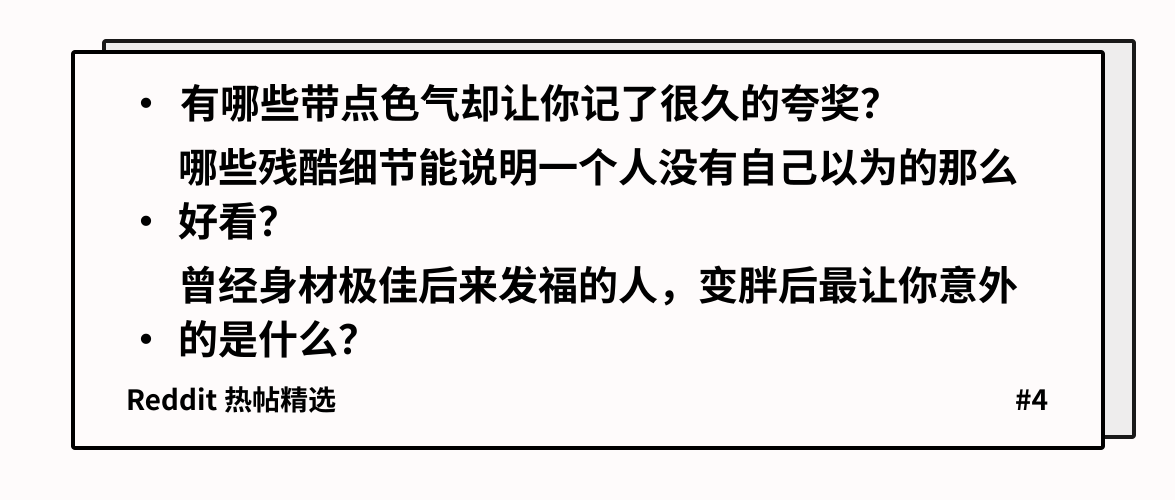
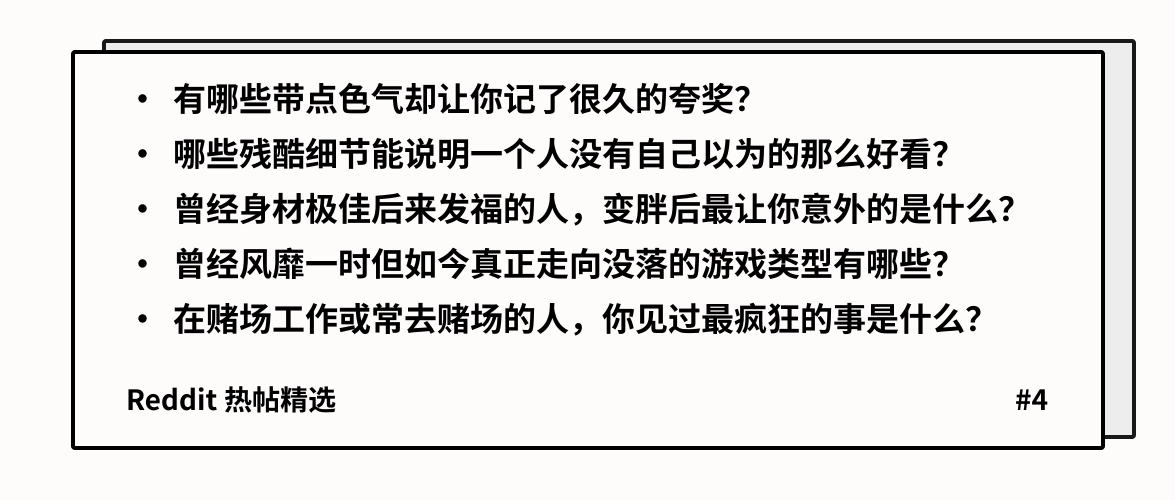
feat(reddit): archive life WeChat drafts

Changed region(s): [[0.1226, 0.27, 0.8885, 0.72], [0.1226, 0.15, 0.766, 0.24]]

diff --git a/data/reddit-life-wechat/2026-08-22/01-1vujdcq.md b/data/reddit-life-wechat/2026-08-22/01-1vujdcq.md
@@ -1,7 +1,7 @@
 ---
 author: bhwa233
 pubDatetime: 2026-08-21T16:00:00Z
-modDatetime: 2026-08-22T10:19:44Z
+modDatetime: 2026-08-23T04:36:12Z
 title: "有哪些带点色气却让你记了很久的夸奖？｜Reddit 热帖精选 #4"
 featured: false
 draft: false
@@ -126,11 +126,83 @@ subreddit: "AskReddit"
 
 10\. 肥胖还会摧毁人的自律能力。当身体状态恶化、体内激素和神经递质失衡时，原本在健身房里的意志力和控制力会彻底瓦解。脑子里明明懂得所有减脂原理，却发现自己根本无法像以前那样严格执行，那种无能为力的挫败感极其折磨人。
 
+## 曾经风靡一时但如今真正走向没落的游戏类型有哪些？
+
+1\. 网页小游戏基本上已经名存实亡。当年 Flash 播放器的停用直接终结了一代人的网页记忆，无数经典老游戏彻底无法运行。更受欢迎的作品要么转战移动端沦为充斥微交易的课金机器，要么被新一代沙盒与平台彻底取代。
+
+2\. 即时战略游戏（RTS）在世纪之交曾统治整个行业，《星际争霸》《魔兽争霸》《命令与征服》是无数人的青春。现在这类游戏太难做成爆款，多数新作也难以摆脱老套路的换皮感，整个品类全靠忠实老玩家、大型社区 MOD 以及偶尔冒出的精品苦苦支撑。
+
+3\. 音乐和节奏类游戏曾经在实体店里独占一整排货架，如今在主流主机上几乎绝迹。这个品类除了退守 VR 平台和日本街机厅外，主要是因为玩家社区彻底掌控了生态：当玩家能在《Clone Hero》这类社区作品里免费畅玩几百万首自定义曲目时，商业厂商无论出什么带几十首歌的新作都毫无竞争力。
+
+4\. 2D 点击解谜与冒险游戏在经历了上世纪黄金期和 2010 年代的短暂回暖后再次边缘化。原本触摸屏是最适合该品类的载体，但手游市场追求短平快，玩家很难在手机上沉下心打通一部长篇解谜，这类玩法现在更多演化为了独立推理悬疑作品。
+
+5\. 像《烈火战车》《横冲直撞》这种以载具战斗和破坏为核心的赛车游戏几乎绝迹。事实上除了硬核赛车模拟器和极少数开放世界竞速大作外，包括《火爆狂飙》《极品飞车》在内的传统街机风格娱乐赛车都已风光不再。
+
+6\. 本地分屏与同屏合作游戏（Couch Co-op）几乎被大厂遗忘。以前两个人挤在沙发上一台电视打通宵是常态，如今除了《双人成行》或少数独立游戏，主流 3A 大作几乎不再提供能让两个人在本地无缝共享进度的分屏战役。
+
+7\. 纯粹的潜行暗杀游戏几乎灭绝了。《细胞分裂》《神偷》那个时代靠严谨光影与环境机制驱动的纯潜行玩法难以在高画质大作中平衡，如今各大厂商只是把潜行做成开放世界里的通用附属机制，再也没人愿意做纯潜行核心体验。
+
+8\. 竞技场射击游戏（Arena shooters）在经历了《雷神之锤 3》和《虚幻竞技场》的辉煌后已死去多年。市场先是被英雄射击瓜分，紧接着被大逃杀和撤离类射击占领，那种纯靠身法、抢资源点和高速枪法决胜负的快节奏竞技彻底失去了大众市场。
+
+9\. 大逃杀类游戏也正在肉眼可见地降温。在巅峰期几乎每款射击游戏都硬塞一个吃鸡模式，极度的市场饱和让大量跟风作品活不过两周，即便是头部作品对年轻一代的吸引力也开始下滑。
+
+10\. 大型多人在线角色扮演游戏（MMORPG）陷入了没有厂商敢做新项目的死局。开发成本极其高昂，而老玩家在现有的老牌 MMO 中投入了数千小时与深厚的社交资产，新游戏只要稍有瑕疵就会迅速暴毙，难以吸引玩家抛弃旧天地。
+
+11\. 3D 平台跳跃游戏如今罕有大厂涉足，除了任天堂的马里奥和索尼的《宇宙机器人》等极少数标杆外，大预算大制作几乎绝迹，整个品类几乎退守成了中小成本独立开发者的领地。
+
+12\. 以单人战役为核心卖点、多人模式仅作为补充的传统线性第一人称射击游戏越来越少，取而代之的全是长线运营服务型射击；同时真人互动影视游戏、实体联动玩具游戏以及能让玩家真正永久买断离线拥有的游戏模式，也都在被现代游戏工业逐步淘汰。
+
+## 在赌场工作或常去赌场的人，你见过最疯狂的事是什么？
+
+1\. 80年代末在赌场当发牌员，见过一个醉汉兜里揣着5英镑走进来，最后带着4.1万英镑离开，在当年那笔钱足够全款买套房子。还有一次我发二十一点时，有赌客把点燃的雪茄直接按在我手背上掐灭，我当场反手给了他一巴掌。第二天经理把我叫进办公室，说客人道歉了，但我也必须向客人道歉。我当场辞职，买了张去迈阿密的机票，挨家挨户敲游轮公司的门找赌场工作。那年我19岁，觉得自己刀枪不入，可惜手背上的疤留到了今天。
+
+2\. 年轻时有次跟朋友玩嗨了，突发奇想开了一小时车跑去印第安保留地的赌场，两人兜里各自只有100美元。我们在那遇到了我表哥，他问我们玩过二十一点没，我说知道规则但没玩过。表哥就带着我们坐下一边教潜规则一边打，最后我揣着1300美元离场，朋友赢了900美元。等药劲差不多退去、脑子开始清醒时，我转头问朋友：“你想不想成为这间赌场里最聪明的人？”他立刻懂了我的意思，我们拔腿就走。
+
+3\. 二十岁出头在牌桌上打德扑，左手边的大哥跟我聊得火热，说自己已经输了5万美元，今天不捞回来绝对不下桌。因为我就住在赌场酒店里，第二天中午下楼吃午餐时路过牌桌，发现他依然坐在同一个位置上。我心里有一丝希望他回本了，但理智告诉我他只会被吃得渣都不剩。
+
+4\. 在赌场做客房服务送酒，电梯门一开，一个西装革履的老先生整个人蜷缩在电梯角落的地板上。我问他需不需要叫人帮忙，他神色平静、毫无波澜地回了一句：“我输了一百万美元。”剩下那段电梯成了我人生中最尴尬漫长的几分钟。
+
+5\. 老虎机上方的轨道灯起火，燃烧的碎片像下雨一样掉在机器上，保安不得不强行把赌客从机器前拖走，因为这群人居然一边拍掉头发和屏幕上的火星一边继续狂按。还有一次天花板漏水直往下滴，为了不打断连胜运，玩家死活不肯走，最后保安找来一张巨大的透明塑料布，把整排机器和坐着的人一起盖在下面继续赌。
+
+6\. 当发牌员时有个常客整天泡在桌前，他为了不离开座位上厕所从而“打断赢钱运”，竟然自愿去医院插了导尿管，还到处跟人炫耀，可他实际上几乎就没赢过。还有很多赌客干脆穿上成人纸尿裤，甚至有人把孩子辛辛苦苦攒下的零花钱翻出来全输光，病态得令人窒息。
+
+7\. 在掷骰子桌上，有个男子自命不凡地把1.5万美元现金像撒花一样甩得满桌都是，荷官直接拿起推杆把所有钱当垃圾一样全铲回他面前，冷冷地说想玩就先学会像个绅士。结果这人下一把按每投5000美元下注，连掷三次全输光。
+
+8\. 老虎机软件工程师表示极度讨厌自己的工作。最让人看不下去的是毫无希望的重度赌瘾者：插着氧气管的老太太往机器里塞20美元钞票的速度，快赶上机器吞钱的极限；还有人直接包下一整排机器，像巡逻一样来回走动狂拍旋转键，甚至完全不看屏幕上滚出的结果。
+
+9\. 低投注区的机器永远坐满了重度上瘾的老太太，赌场开门前就在排队，整天玩5美分的档位。有天一位老太太悄无声息地死在机器后座上，赌场连门都没关，只是把低投注区域单独拉上了警戒线。
+
+10\. 90年代在小赌场发牌，一个穿着降落伞裤、顶着挑染发型的年轻人狂掷重金，输光后毫无表情地走开。片刻后他径直挤回我的桌前，背对着我开始扭动，随后在一秒钟之内把降落伞裤褪到脚踝，当场在桌前脱裤撒野。
+
+11\. 朋友吃完海鲜自助大餐又喝了烈酒，坐在二十一点桌前突然喷射性呕吐，吐得满桌、满牌、连发牌员身上全是一层黏糊糊的海鲜浓汤。同桌的赌客连自己桌上的筹码都顾不上拿，当场作鸟兽散。
+
+12\. 作为志愿消防员，有次当地遭遇洪水，我们被叫到一家地下室被淹的赌场排险。赶到现场时水已经漫到了脚踝深度，令人震惊的是，满屋子的赌客依然泡在水里淡定地拍着老虎机。
+
+13\. 玩便士老虎机的男人纸尿裤彻底兜不住了，他一边对着机器狂怒仿佛机器抢了他的钱，一边一只手提着裤子防止继续往下漏，另一只手不停往里塞一美元纸币。保安习以为常地递给他纸巾让他别蹭到椅子上，最后他兑出42美元，留下一张满是污渍的湿椅子扬长而去。
+
+14\. 掷骰子桌上总能见到以为自己能靠特定手法“控球”的人，输掉成堆的钱，但他们的自信心却从不减弱分毫，仿佛只要意念够强就能对抗台面上那些专门打乱骰子落点的金字塔减震胶垫。
+
+15\. 赌场酒吧常客在小便池里脱光裤子大便，被吧员质问后直接转过身对着地板乱尿，甚至光着屁股气势汹汹地要跟赶来的保安决斗，毫无悬念地被当场制服。
+
+16\. 德州扑克锦标赛正打着，一位年轻妈妈提着婴儿提篮冲进场，直接把刚出生不久的婴儿放在牌桌正中央，对着4号位的丈夫怒吼：“既然你不想回家看孩子，那你就坐在这里看！”随后摔门而去。丈夫尴尬地抱起孩子赶紧追出去，发牌员为了缓解死寂的气氛调侃了一句：“孩子可不能这么养（raise），这可是台面下注规则！”
+
+17\. 朋友的前男友沉迷电子基诺机，年薪7.5万美元，外加一栋价值30万美元的房子，最后全被那些赔率极低的破机器吞得一干二净，彻底输掉了整个人生。
+
+18\. 遇到大面积停电时，机器全部黑屏，我们必须人工核算给上千名客人手动派发现金，结果整群老头老太瞬间将员工死死围住，场面失控得像是要引发暴动。
+
+19\. 90年代欧洲赌场监控密布，到处贴着国际老千团伙的大头照。这些团伙无所不用其极，有人在手掌上涂满胶水，假装靠在赌桌上顺手粘走筹码，还有专门配齐算牌团队全方位钻漏洞的。
+
+20\. 救护人员赶到赌场对一名在轮椅上失去呼吸的老人进行心肺复苏，周围打老虎机的赌客却死活不肯挪开哪怕半步，甚至愤怒地大吼：“这是我的机器，我绝对不挪！”为了不打断自己的游戏，对身旁的生死抢救毫无悲悯。
+
+21\. 欧洲夜班赌场在清晨4点夜店关门后，常涌入吸毒狂欢后的VIP。一位熟客进门要烈酒被拒后给了200欧元小费改要甘菊茶，随后转头去玩轮盘，输红了眼后当场脱下裤子直接尿在轮盘赌桌上，随即被终身禁入。
+
+22\. 丈夫突发心脏病倒地，急救人员需要从妻子的手提包里拿急救药，妻子却舍不得松开正在拉老虎机的手，头也不回地说机器马上要吐奖了不能停。丈夫最终在救护车上去世，妻子随后被指控过失杀人。
+
+23\. 好友夫妇去赌场前立规矩每人最多输500美元，中途手气爆棚中了1.5万美元大奖，赌场殷勤地免费送了他们一晚高级套房庆祝。第二天朋友垂头丧气地告诉我他们输得精光，不仅1.5万奖金全倒贴回去，还额外亏了原本的50美元——他们这才明白为什么赌场会那么大方地免费赠送客房。
+
+24\. 参与建造一家极度奢华的赌场，开业前三天老板视察，认为地毯颜色是“血红”而不是他要的“龙红”，一声令下将全场数万平米地毯全部掀掉重铺，光换地毯就烧了3000万美元。开业当天客人的烟头直接掉在崭新的地毯上，赌场的应对方案是每周用机器把地毯表面刨削掉3毫米去烫痕，削到底了再整批换新。
+
 **今天还有这些热帖**
-
-4\. 曾经风靡一时但如今真正走向没落的游戏类型有哪些？
-
-5\. 在赌场工作或常去赌场的人，你见过最疯狂的事是什么？
 
 6\. 哪个电视广告是你这代人全都知道、年轻人却毫无概念的？
 
